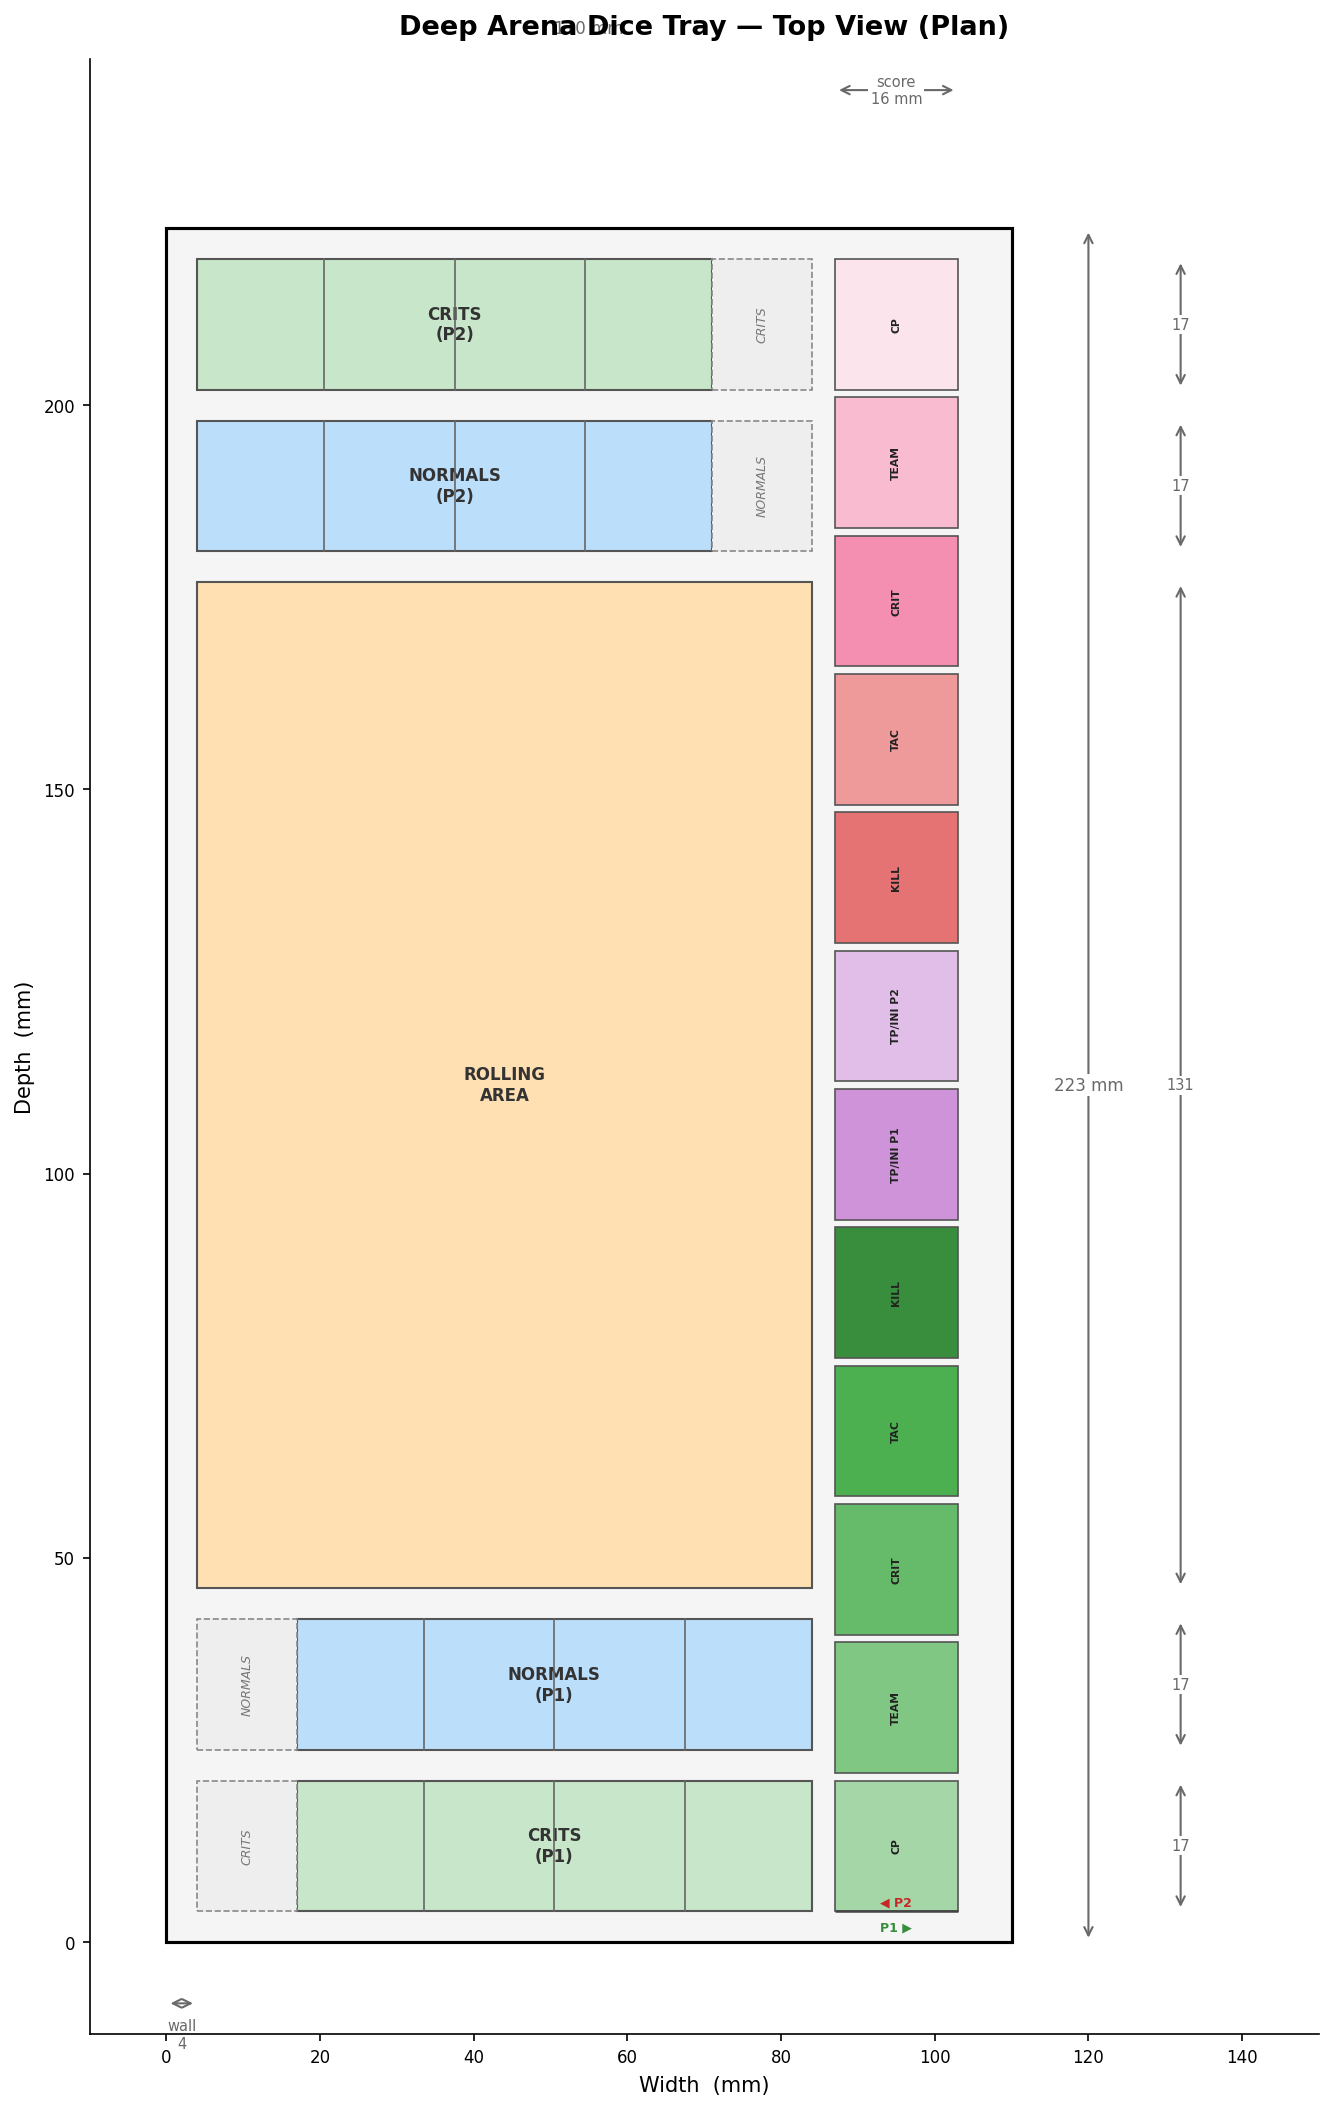
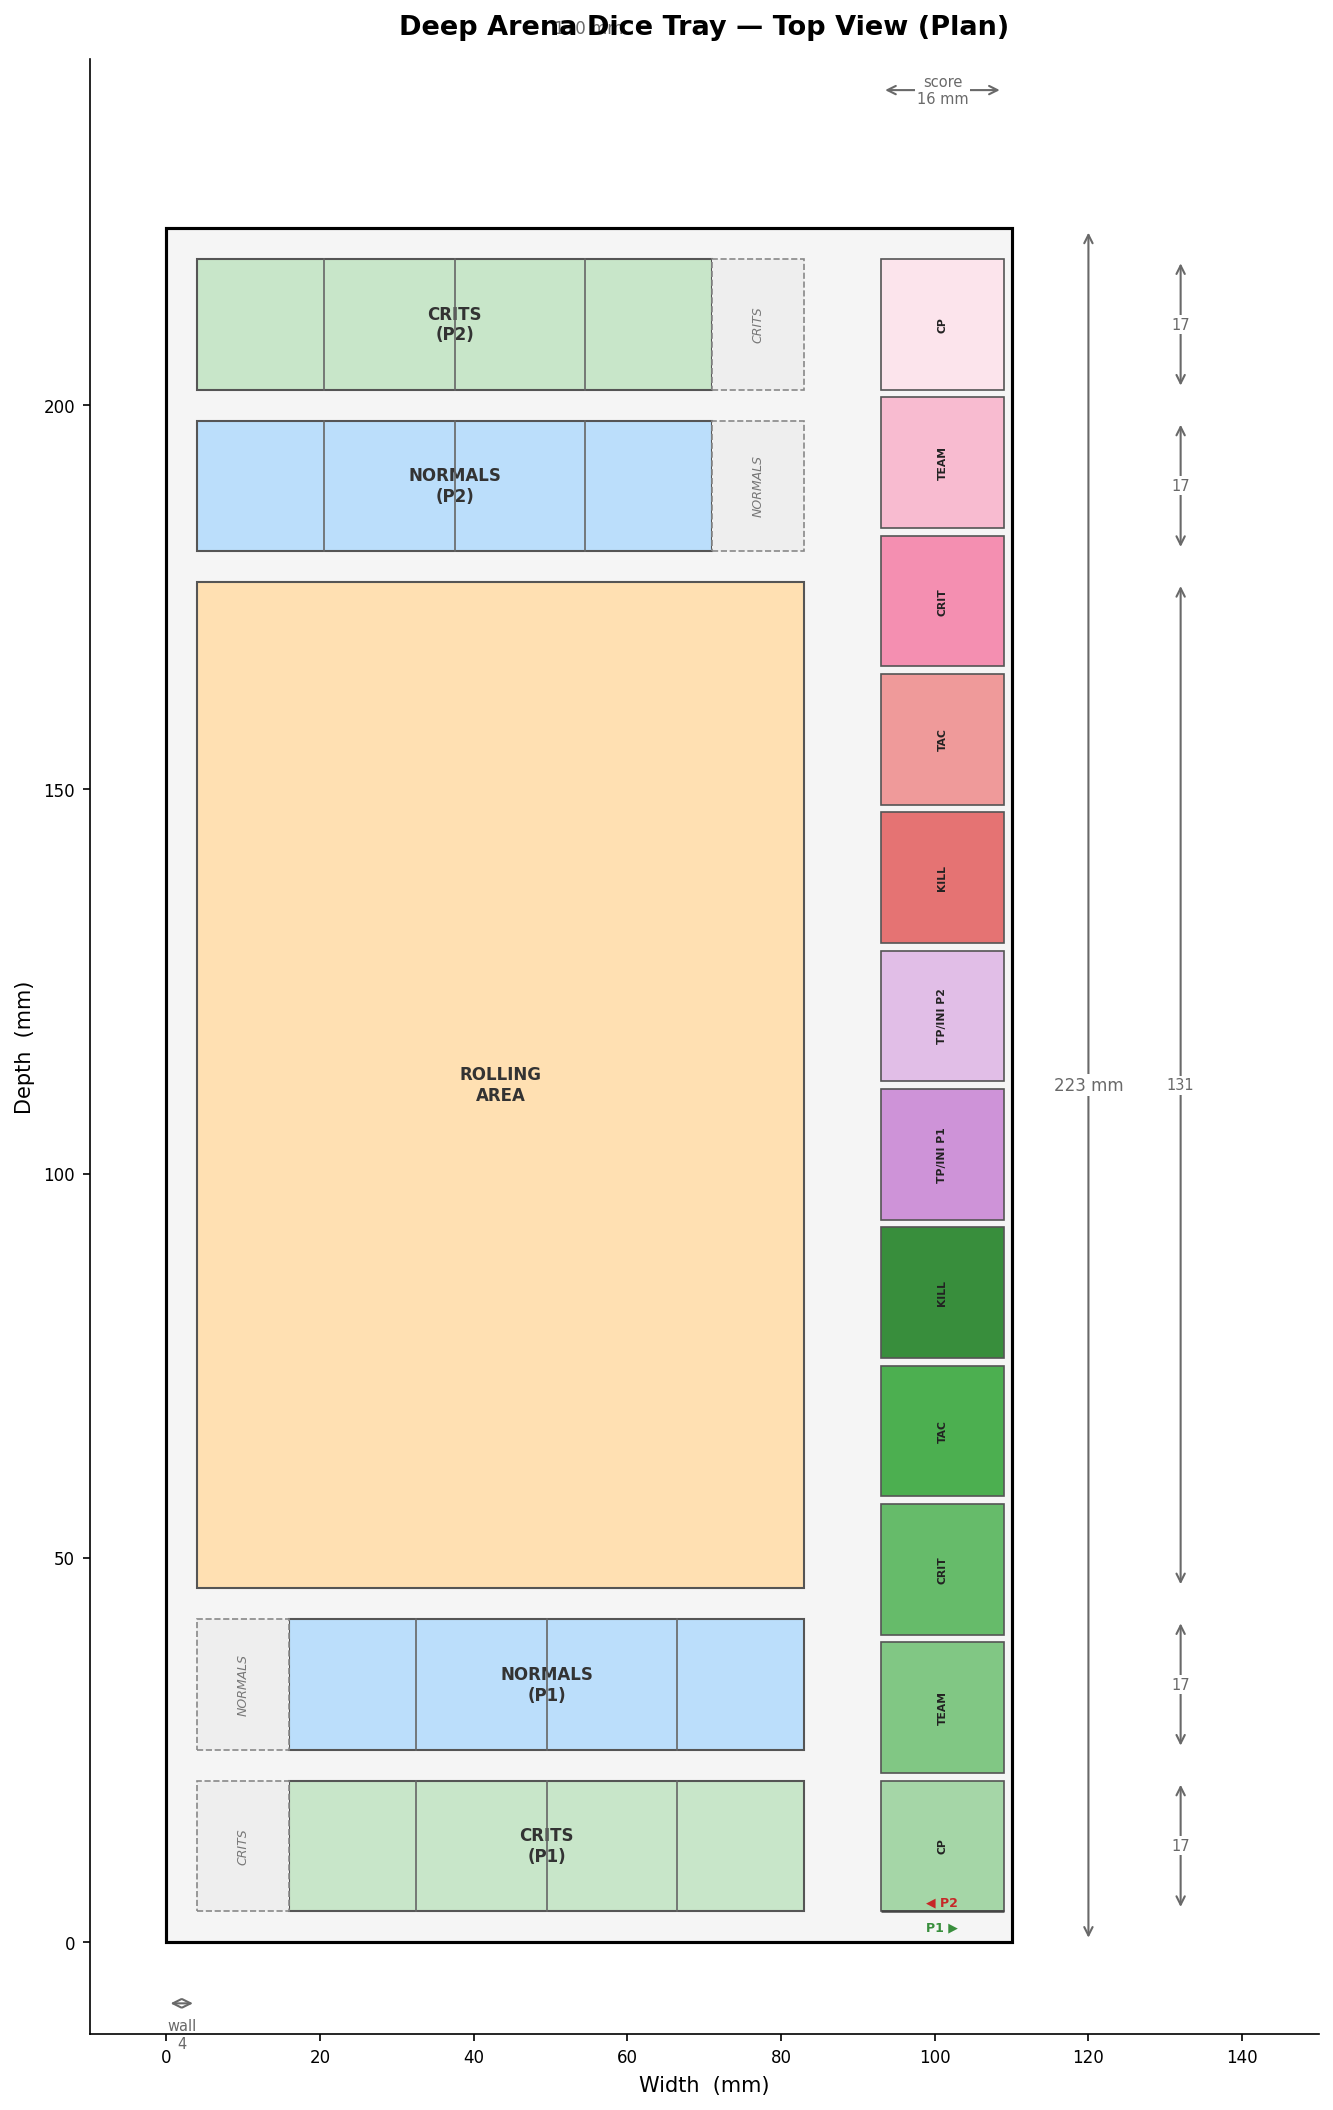
v3: Add 10mm score label zone between rolling area and score boxes
- label_ledge: 13mm → 12mm (matches crit/normal label width)
- right_wall: 3mm → 1mm (minimal structural support)
- score_gap_w (3mm) + score_label_ledge (4mm) → consolidated into score_label_zone (10mm)
- Score strip x-position: 87mm → 93mm (shifted right to accommodate label zone)
- Layout now: wall(4) + ledge(12) + dice(67) + score_label_zone(10) + score(16) + rwall(1) = 110mm
- Score label zone positioned between rolling area and score boxes for easy annotation
- Updated diagram generator to parse score_label_zone with backwards compatibility
- Regenerated all diagrams

diff --git a/wargaming/KT-dice-tray/v3-score-tracker/deep_arena_dice_tray.py b/wargaming/KT-dice-tray/v3-score-tracker/deep_arena_dice_tray.py
@@ -7,8 +7,8 @@ doc = App.newDocument("DeepArenaDiceTray_v3")
 # --- Dimensions ---
 width       = 110.0   # Fixed width (X axis)
 wall        = 4.0     # Left outer wall
-right_wall  = 3.0     # Right outer wall
-label_ledge = 13.0    # P1-side label area (reduced from 15mm for more score label space)
+right_wall  = 1.0     # Right outer wall (minimal for structural support)
+label_ledge = 12.0    # P1-side label area for crit/normal (12mm zone)
 
 # Die slot geometry
 die_slot_w  = 16.0    # Each die slot width — fits 16mm dice
@@ -32,15 +32,14 @@ n_score      = 12
 score_slot_d = 17.0    # 16mm dice + 0.5mm clearance each side (matches slot_d)
 score_full_depth = True
 score_buffer = 0.0     # No buffer: crits rows align directly with score rows
-score_label_ledge = 4.0 # Label area on right side of score strip
+score_label_zone = 10.0 # Unified label area between dice and score tracker
 
 # X layout: wall(4) + ledge(13) + dice(67) + gap(3) + score(16) + score_ledge(4) + r_wall(3) = 110
 dice_w       = n_dice * die_slot_w + (n_dice - 1) * slot_div   # 4*16 + 3*1 = 67mm
-score_gap_w  = 3.0   # Clearance between dice area and score strip (reduced from 5)
-score_strip_x = wall + label_ledge + dice_w + score_gap_w        # x = 87mm
-# score strip occupies x=87..103, score label x=103..107, right wall x=107..110
+score_strip_x = wall + label_ledge + dice_w + score_label_zone   # x = 93mm
+# score strip occupies x=93..109, right wall x=109..110
 
-# Rolling area: from x=wall to just before the score gap
+# Rolling area: from x=wall to just before the score label zone
 roll_w = label_ledge + dice_w   # 13 + 67 = 80mm (x=4..83)
 
 # Score-tracker span drives overall tray depth.

diff --git a/wargaming/KT-dice-tray/generate_diagrams.py b/wargaming/KT-dice-tray/generate_diagrams.py
@@ -38,7 +38,8 @@ base_h     = 25.0
 
 # ── Read optional overrides from the macro in the target folder ───────────────
 label_ledge   = 0.0
-score_label_ledge = 0.0  # label area on right side of score strip
+score_label_zone = 0.0  # unified label area between dice and score tracker
+score_label_ledge = 0.0  # (deprecated - kept for backwards compatibility)
 score_d       = 0.0    # >0 → old v3-style score rows at each end
 die_slot_w    = 16.0
 slot_div      = 1.0
@@ -57,6 +58,7 @@ if os.path.exists(macro_path):
         for _line in _f:
             for _pat, _key in [
                 (r"label_ledge\s*=\s*([0-9.]+)",   "label_ledge"),
+                (r"score_label_zone\s*=\s*([0-9.]+)",   "score_label_zone"),
                 (r"score_label_ledge\s*=\s*([0-9.]+)",   "score_label_ledge"),
                 (r"slot_d\s*=\s*([0-9.]+)",        "slot_d"),
                 (r"score_d\s*=\s*([0-9.]+)",       "score_d"),
@@ -102,9 +104,11 @@ else:
     score_cut_w  = 0.0
 
 # Score strip geometry (single-column symmetric, new v3)
-# strip_div_w separates dice area from score column
+# score_label_zone is the space between rolling area and score boxes for labels
 if has_score_strip:
-    score_strip_x = wall + label_ledge + dice_w + score_gap_w
+    # Use score_label_zone if present, otherwise fall back to score_gap_w
+    label_zone = score_label_zone if score_label_zone > 0 else score_gap_w
+    score_strip_x = wall + label_ledge + dice_w + label_zone
     roll_w        = label_ledge + dice_w   # rolling area X-width
 else:
     score_strip_x = 0.0
